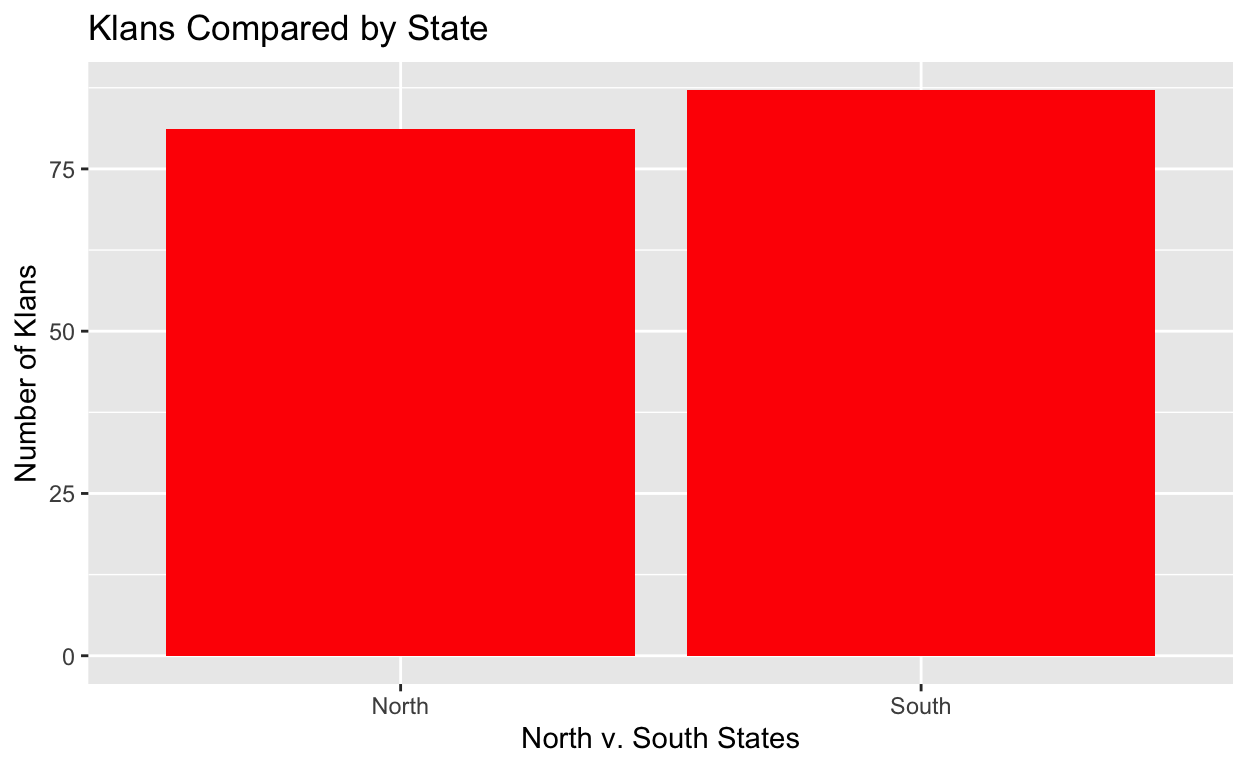
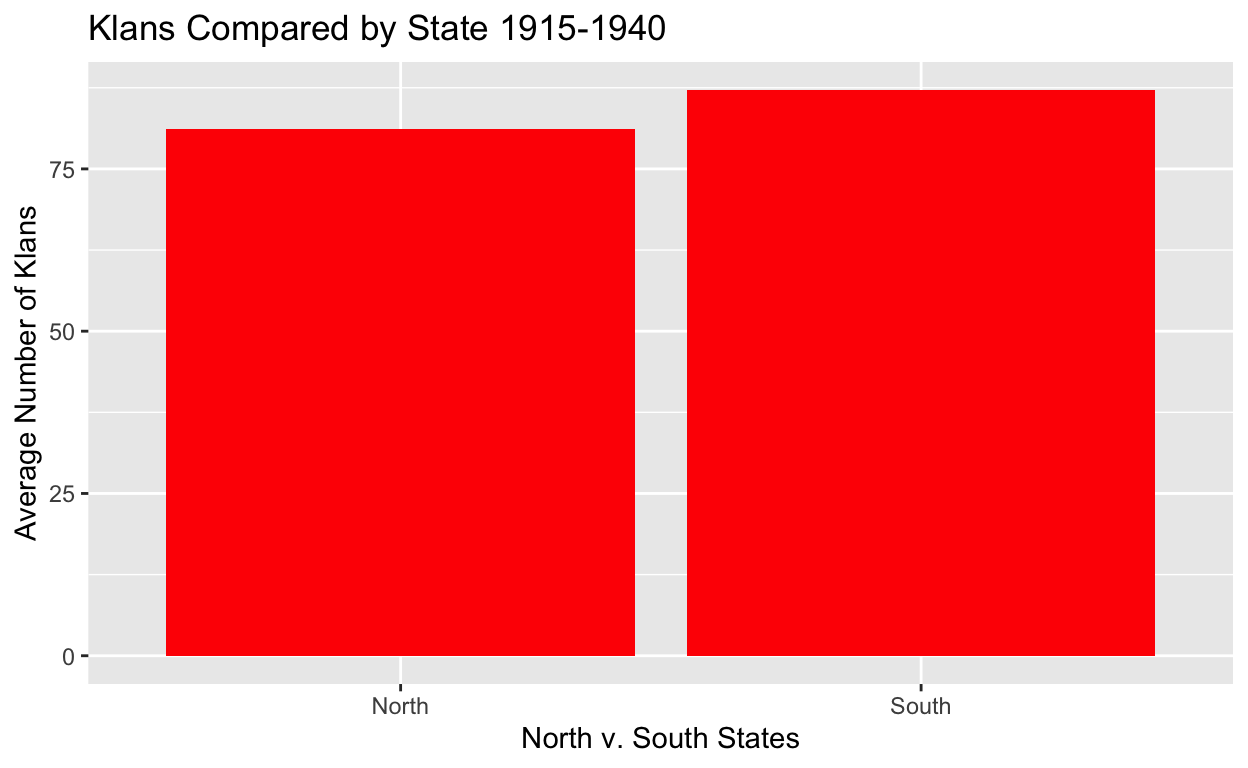
edited date to graph

Changed region(s): [[0.0, 0.25, 0.0312, 0.7188], [0.4062, 0.0, 0.5312, 0.0625]]

diff --git a/index.html b/index.html
@@ -1579,8 +1579,8 @@ code span.wa { color: #5e5e5e; font-style: italic; } /* Warning */
 <span>  <span class='fu'><a href='https://ggplot2.tidyverse.org/reference/scale_discrete.html'>scale_x_discrete</a></span><span class='op'>(</span><span class='op'>)</span> <span class='op'>+</span></span>
 <span>  <span class='fu'><a href='https://ggplot2.tidyverse.org/reference/labs.html'>labs</a></span><span class='op'>(</span></span>
 <span>    x <span class='op'>=</span> <span class='st'>"North v. South States"</span>,</span>
-<span>    y <span class='op'>=</span> <span class='st'>"Number of Klans"</span>,</span>
-<span>    title <span class='op'>=</span> <span class='st'>"Klans Compared by State"</span><span class='op'>)</span>  </span>
+<span>    y <span class='op'>=</span> <span class='st'>"Average Number of Klans"</span>,</span>
+<span>    title <span class='op'>=</span> <span class='st'>"Klans Compared by State 1915-1940"</span><span class='op'>)</span>  </span>
 <span><span class='va'>plot</span></span></code></pre>
 </div>
 <p><img src="index_files/figure-html5/unnamed-chunk-2-1.png" alt="" width="624" /></p>
